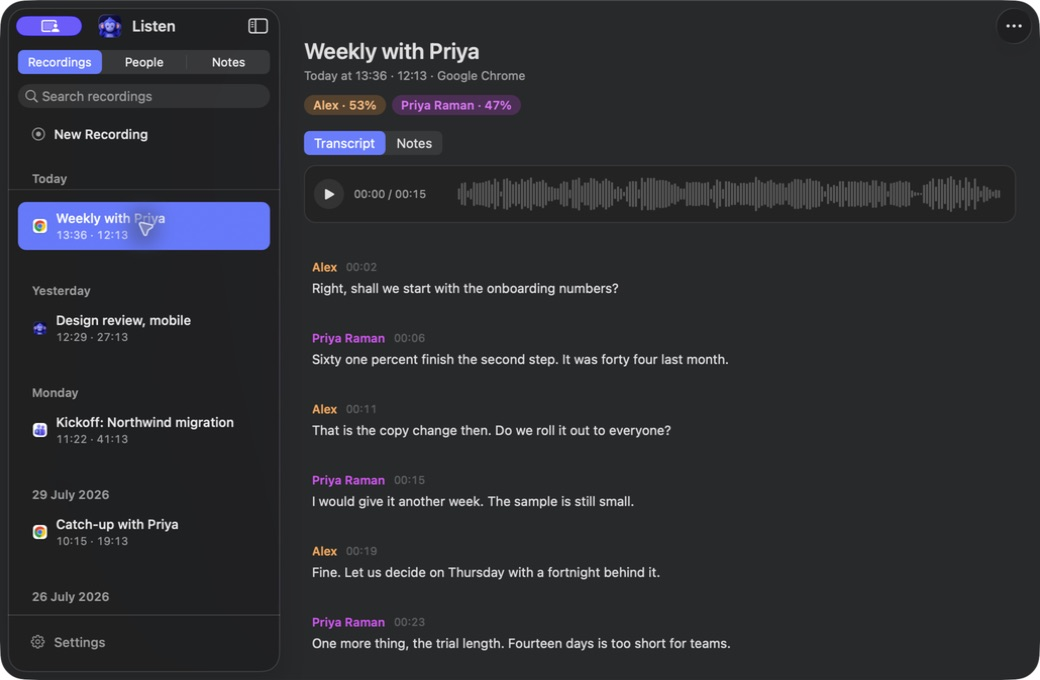
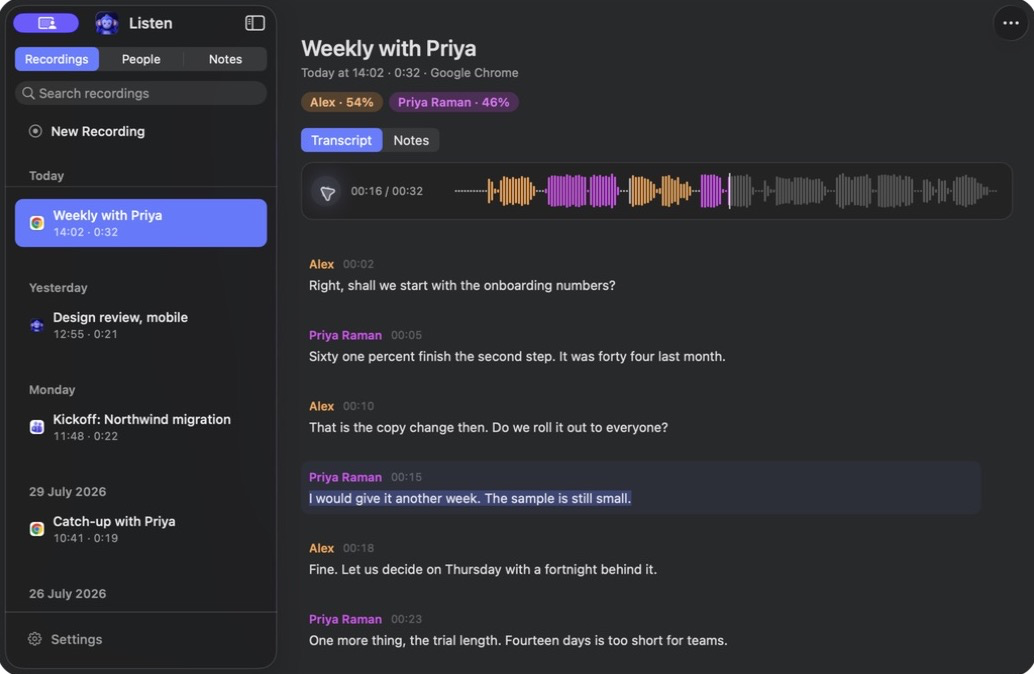
Make the Listen demo playback truthful

diff --git a/docs/index.html b/docs/index.html
@@ -88,7 +88,7 @@ footer { padding: 40px 0 80px; border-top: 1px solid var(--line); color: var(--g
 footer a { color: var(--grey); }
 .shot {
   display: block; width: 100%; height: auto; margin: 0 0 8px;
-  border: 1px solid var(--line); border-radius: 10px;
+  border: 0; border-radius: 10px;
 }
 .caption { font-size: 13px; color: var(--grey-dim); margin: 0 0 16px; }
 table { width: 100%; border-collapse: collapse; margin-bottom: 16px; }
@@ -126,8 +126,8 @@ td:first-child { color: var(--text); width: 40%; padding-right: 16px; }
        alt="Listen showing a meeting: the recording list on the left, the
             speakers and a waveform above the transcript, and each turn
             attributed by name.">
-  <p class="caption">Invented meeting, invented people, synthesised voices.
-  Nobody's call is on this page.</p>
+  <p class="caption">Playback halfway through an invented meeting, with
+  synthesised voices. Nobody's call is on this page.</p>
 
   <h2>What it does</h2>
   <p class="lead">You press record. Nobody joins the call, nothing appears on
